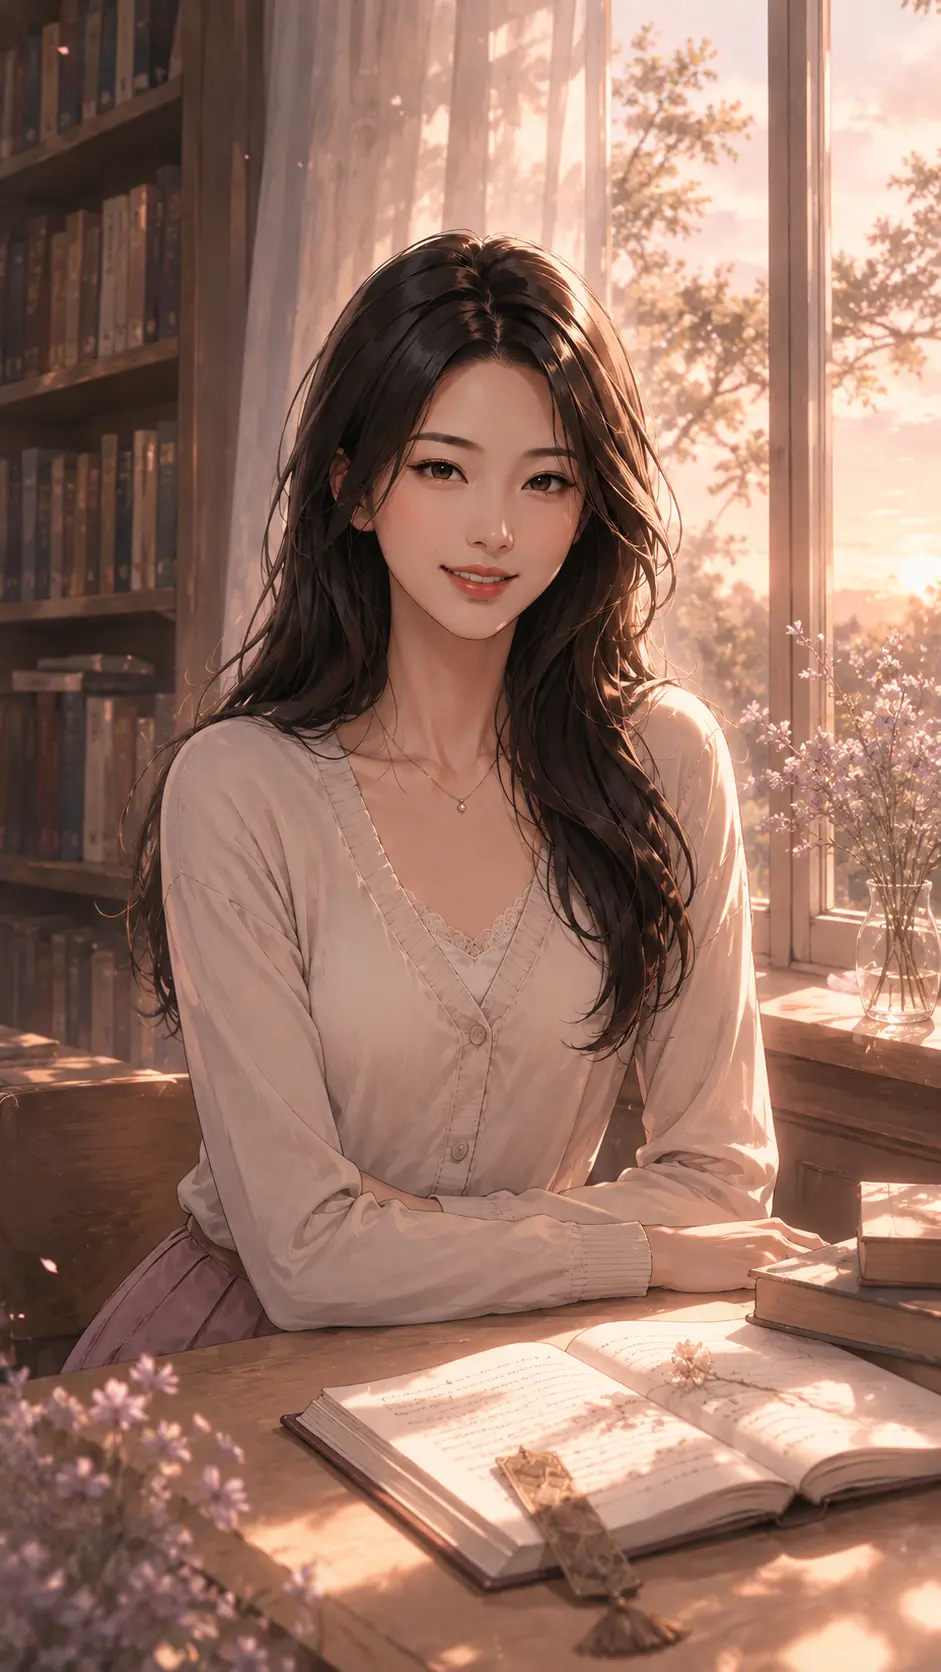
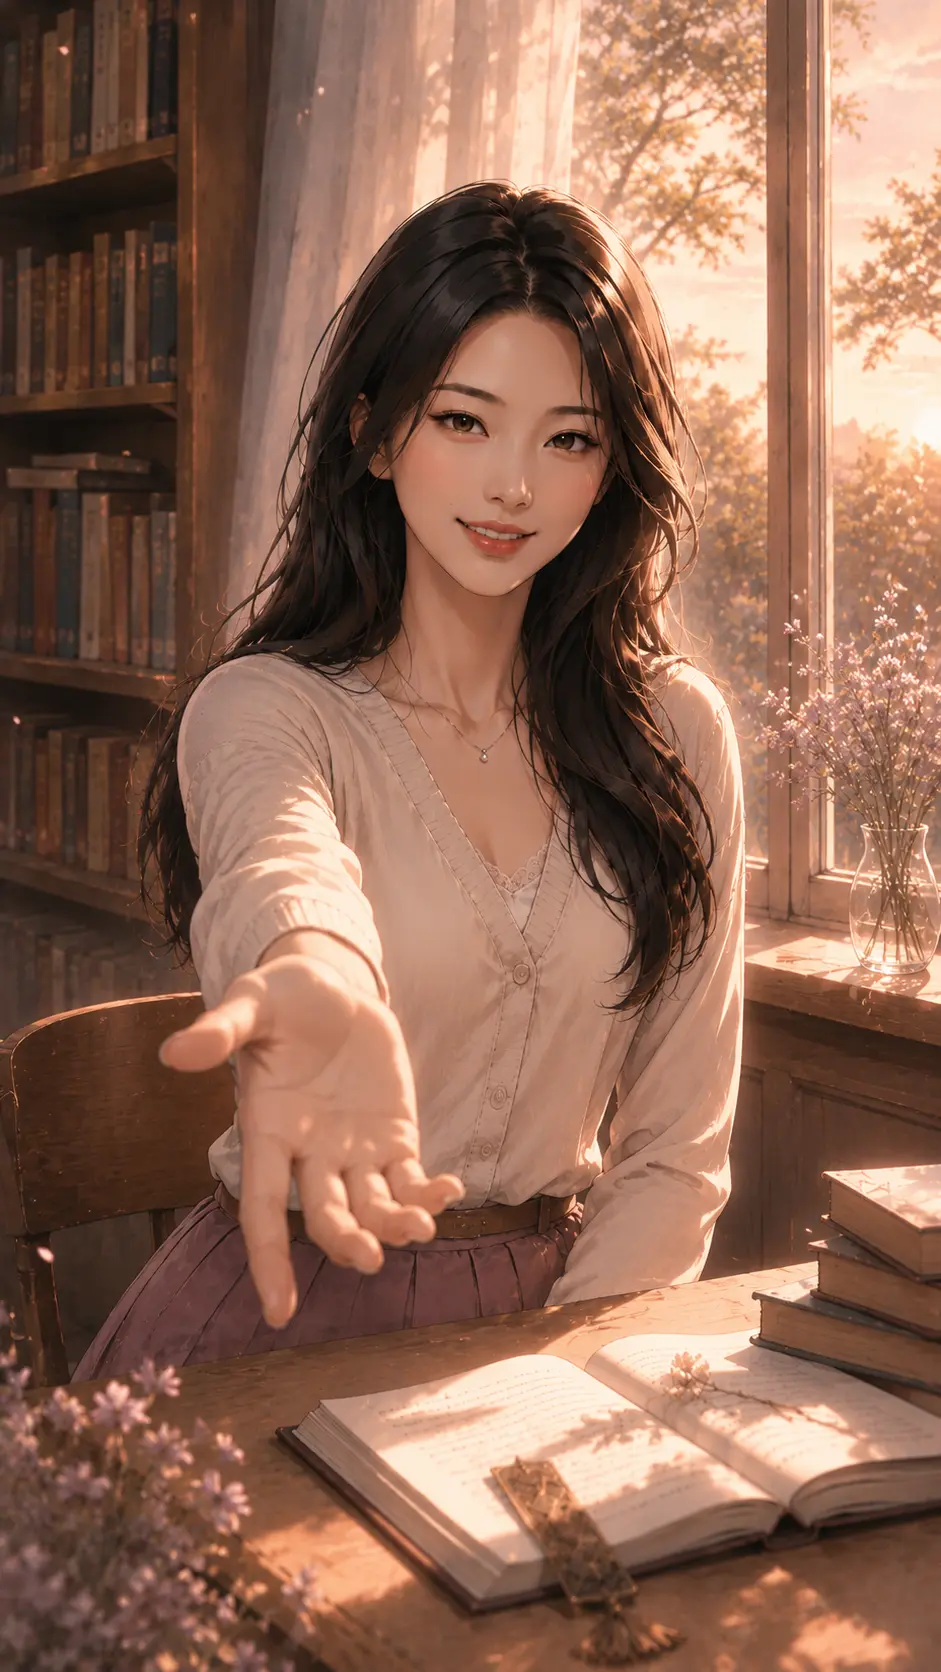
Fix text and final update

diff --git a/src/App.jsx b/src/App.jsx
@@ -1,4 +1,4 @@
-import React, { useMemo, useRef, useState } from "react";
+import React, { useEffect, useMemo, useRef, useState } from "react";
 import { toPng } from "html-to-image";
 
 const prologue = [
@@ -54,7 +54,7 @@ const scenes = [
 
 어제 주운 책갈피는 작은 종이 한 장일 뿐인데,
 이상하게 쉽게 가방에서 꺼낼 수 없었다.`, button: "책갈피 돌려주기" },
-    question: `다음 날, 유저는 케이코쨩에게 책갈피를 돌려준다.
+    question: `다음 날, 당신은 케이코쨩에게 책갈피를 돌려준다.
 케이코쨩은 책갈피를 받아 들고 잠시 침묵한다.
 
 “이걸… 버리지 않고 가져왔네.”`,
@@ -94,11 +94,11 @@ const scenes = [
 미나는 장난스럽게 웃다가, 곧 목소리를 낮췄다.
 
 “근데 조심해. 걔, 예전 일이 좀 있어.”`, button: "미나의 말 듣기" },
-    question: `케이코쨩의 과 동기 미나가 유저에게 말을 건다.
+    question: `케이코쨩의 과 동기 미나가 당신에게 말을 건다.
 
 “케이코, 예전엔 글 진짜 잘 썼어. 근데 어느 순간부터 아예 안 쓰더라. 무슨 일 있었던 것 같긴 한데…”
 
-유저는 케이코쨩의 과거가 궁금해진다.`,
+당신은 케이코쨩의 과거가 궁금해진다.`,
     choices: [
       { id: "A", text: "케이코쨩이 직접 말해줄 때까지 기다릴게.", scores: { affection: 1, trust: 2, sincerity: 2 }, reaction: "넌 이상하게… 선을 넘지 않네." },
       { id: "B", text: "가끔 그런 사람 있잖아. 남들이랑 조금 다른 결을 가진 사람. 케이코쨩도 그런 쪽 같아.", scores: { pressure: 1, cultFlag: 2 }, reaction: "다른 결… 그 말은 칭찬 같기도 하고, 조금 이상하기도 해." },
@@ -115,7 +115,7 @@ const scenes = [
 도서관 앞 처마 아래,
 케이코쨩은 우산 없이 조용히 비를 바라보고 있었다.`, button: "다가가기" },
     question: `갑자기 비가 쏟아진다.
-유저는 우산을 들고 있고, 케이코쨩은 우산 없이 도서관 앞에 서 있다.
+당신은 우산을 들고 있고, 케이코쨩은 우산 없이 도서관 앞에 서 있다.
 
 케이코쨩은 비를 바라보다 작게 말한다.
 
@@ -199,7 +199,7 @@ const scenes = [
 
 “이번 주말에 시간 있어?”
 
-유저가 놀라자 케이코쨩은 살짝 눈을 피한다.
+당신이 놀라자 케이코쨩은 살짝 눈을 피한다.
 
 “보여주고 싶은 곳이 있어.”`,
     choices: [
@@ -254,7 +254,7 @@ const endings = {
 
 그리고 두둥실 떠올라 멀리 자유롭게 날아가버렸습니다.
 
-..그래도 케이코쨩이 행복해졌으니 됬잖아요? ` },
+..그래도 케이코쨩이 행복해졌으니 됐잖아요? ` },
   pressure: { number: "ENDING 05", title: "너무 가까운 거리", type: "부담 실패 엔딩", image: "ending-pressure.webp", quote: "좋아한다는 말이, 상대의 거리를 무시해도 된다는 뜻은 아니야.", desc: `당신의 마음은 진심이었을지 모릅니다.
 하지만 진심이라는 이유만으로 상대의 속도를 무시할 수는 없습니다.
 
@@ -359,11 +359,12 @@ function Bg({ type = "library" }) {
         src={imageMap[type]}
         alt=""
         className="absolute inset-0 h-full w-full object-cover"
+        loading="eager"
+        decoding="async"
         onError={(event) => {
           event.currentTarget.style.display = "none";
         }}
       />
-
       <div className="absolute inset-0 bg-gradient-to-b from-white/12 via-transparent to-[#f8f2ea]/55" />
     </div>
   );
@@ -439,6 +440,26 @@ export default function App() {
   const [reaction, setReaction] = useState("");
   const [reactionImage, setReactionImage] = useState("keiko-neutral.webp");
   const [answers, setAnswers] = useState(Array(scenes.length).fill(null));
+
+  useEffect(() => {
+    const imageSources = [
+      "/images/main/main-bg.webp",
+      "/images/backgrounds/library-bg.webp",
+      "/images/backgrounds/bookmark-closeup.webp",
+      "/images/backgrounds/classroom.webp",
+      "/images/backgrounds/campus.webp",
+      "/images/backgrounds/rainy-campus.webp",
+      "/images/backgrounds/hallway.webp",
+      "/images/backgrounds/night-room.webp",
+      "/images/backgrounds/park.webp",
+      "/images/characters/keiko-main.webp",
+    ];
+  
+    imageSources.forEach((src) => {
+      const img = new Image();
+      img.src = src;
+    });
+  }, []);
 
   const scores = useMemo(() => calculateScores(answers), [answers]);
   const ending = useMemo(() => endings[getEndingId(scores)], [scores]);
